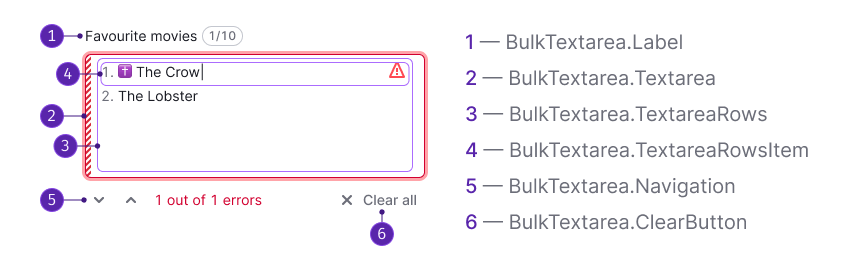
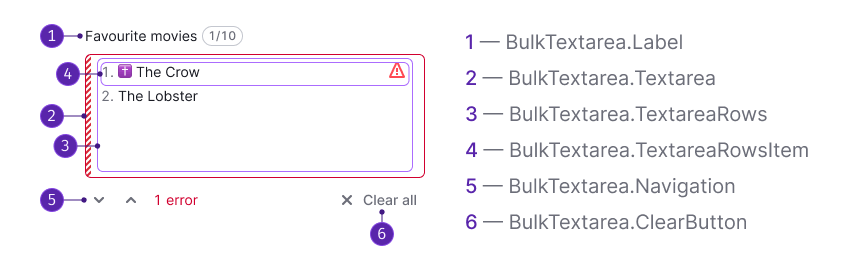
[website] added more info to BulkTextarea docs

Changed region(s): [[0.0918, 0.1778, 0.52, 0.6815], [0.1835, 0.7111, 0.3059, 0.7704]]

diff --git a/website/docs/components/bulk-textarea/bulk-textarea.md b/website/docs/components/bulk-textarea/bulk-textarea.md
@@ -3,9 +3,15 @@ title: BulkTextarea
 tabs: Design('bulk-textarea'), A11y('bulk-textarea-a11y'), API('bulk-textarea-api'), Example('bulk-textarea-code'), Changelog('bulk-textarea-changelog')
 ---
 
+_**WILL WE USE "ROW" OR "LINE" WORD FOR THE LINE WITH A VALUE? If we will use "Line" then don't forget to update "rows" to "lines" in the following documentation.**_
+
 ## Description
 
-**BulkTextarea** is a multiline text field designed for capturing lists of comma-separated values.
+**BulkTextarea** is a multiline text field designed for entering lists of comma-separated values.
+
+You can enter a list manually in this field using **Enter** or a comma, or paste a comma-separated list. You can also define your own rules for splitting values into rows.
+
+This component also provides the possibility to validate every row and the whole input.
 
 ## Component composition
 
@@ -22,7 +28,9 @@ _(THESE NAMES ARE TEMPORARY, WILL BE UPDATED ACCORDING TO THE ACTUAL COMPONENT)_
 - `BulkTextarea.Navigation`
 - `BulkTextarea.ClearButton`
 
-## Sizes
+## Appearance
+
+### Sizes
 
 Component has two sizes:
 
@@ -32,6 +40,12 @@ Table: BulkTextarea sizes
 | ---------------- | ---------------------- |
 | M (`--fs-200`)   | ![](static/bulk-m.png) |
 | L (`--fs-300`)   | ![](static/bulk-l.png) |
+
+### Rows
+
+Each row is numbered. Rows that fail validation are marked with a `Warning` icon on the right. Rows that exceed the limit have a different background color.
+
+![](static/bulktextarea-rows.png)
 
 ## Counter
 
@@ -44,9 +58,27 @@ Table: BulkTextarea with counter
 | M (`--fs-200`)   | ![](static/bulk-m.png) |
 | L (`--fs-300`)   | ![](static/bulk-l.png) |
 
+### How counter work
+
+1. The counter shows the value limit and updates once there’s at least one character in a line.
+2. The counter updates if the user deletes a line.
+3. Empty lines are removed immediately in the component if the user presses the Enter key or a comma on an empty line.
+4. Duplicate lines are counted.
+5. You can set your own validation rules for how invalid values are counted in the counter.
+
+### Values near and above limit
+
+When the number of values reaches the limit, the counter changes its theme to `warning`.
+
+![](static/values-limit.png)
+
+Rows with values that exceed the limit are highlighted. Counter changes its theme to `danger`.
+
+![](static/values-off-limit.png)
+
 ## Controls
 
-In the component, the controls have a default placement, but if you need to position them elsewhere, you can expand the component and arrange them differently. [Refer to the example]().
+In the component, the controls have a default placement, but if you need to position them elsewhere, you can expand the component and arrange them differently. [Refer to the example](/components/bulk-textarea/bulk-textarea-code#expanded-bulktextarea).
 
 ### Clear field button
 
@@ -56,32 +88,42 @@ As soon as at least one character is entered in the field, a button for clearing
 
 ### Navigation buttons
 
-Error navigation appears after the values in the field have been validated. Next to the buttons, we show the number of errors in the field.
+Error navigation shows up after all the values or a single value (depending on the validation method) are validated. The number of errors is shown next to the buttons.
 
 ![](static/bulktextarea-error-navigation.png)
 
-When clicking the buttons, cursor moves to the first or last invalid row, depending on the button. The entire value in the row is selected so the user can quickly delete it. The text next to the buttons changes to "n out of n," including when we move the cursor directly to an invalid row.
+When a button is clicked, the cursor moves to the first or last invalid row, depending on the button. The entire row's value is selected for quick deletion. The text next to the navigation buttons updates to "n out of n" when the cursor is moved using the buttons, keyboard, or mouse.
 
 ![](static/bulktextarea-error-navigation-1.png)
 
-When navigating between invalid rows, this text next to the buttons is recalculated.
+When navigating between invalid rows, the text next to the buttons is updated.  
 
-If we move from an invalid row to a valid row, the counter remains at its previous value.
+If you move from an invalid row to a valid row, the counter stays the same.
 
 ### Resize control
 
-You can enable the resize control for the textarea to allow users to adjust its size. They can stretch it horizontally, vertically, or both ways.
+You can enable the resize control for the textarea, allowing users to adjust its size. They can stretch it horizontally, vertically, or both ways.
 
-When the textarea cannot be stretched, a scrollbar will appear after a certain number of lines. We recommended adding scrollbars when the textarea has at least 5 lines.
+When the textarea cannot be stretched further, a scrollbar will appear after a certain number of rows. We recommend adding scrollbars when the textarea has at least 5 rows.
 
 ::: tip
-Avoid making the textarea smaller than 160-200px in width and 3-4 lines in height. Working with large amounts of data in smaller sizes can be challenging, especially when it serves as a primary input in a form.
+Avoid making the textarea smaller than 160–200px in width and 3–4 rows in height. Working with large amounts of data in smaller sizes can be challenging, especially when it serves as a primary input in a form.
 :::
 
 ## Interaction
 
-### Rows
+### States
+
+BulkTextarea has the same states and styles as [Textarea](/components/textarea/textarea#interaction).
 
 ### Validation
 
-## Usage in UX/UI
+You can define your own validation rules for the input: on submit, onBlur, or on line break. By default, validation in the component works on line break.
+
+### Tooltips
+
+If there are invalid values in the textarea after validation, you can show a tooltip for the entire textarea or for individual rows when the cursor is on them.
+
+![](static/bulktextarea-tooltip.png)
+
+![](static/bulktextarea-tooltip-row.png)

diff --git a/website/docs/components/bulk-textarea/bulk-textarea-a11y.md b/website/docs/components/bulk-textarea/bulk-textarea-a11y.md
@@ -2,3 +2,37 @@
 title: BulkTextarea
 tabs: Design('bulk-textarea'), A11y('bulk-textarea-a11y'), API('bulk-textarea-api'), Example('bulk-textarea-code'), Changelog('bulk-textarea-changelog')
 ---
+
+_**THIS DOCUMENTATION SHOULD BE CHECKED AND UPDATED AFTER THE COMPONENT WILL BE IMPLEMENTED.**_
+
+## What component has
+
+### Roles and attributes
+
+The following list describes roles and attributes that component already has.
+
+Table: Roles and attributes
+
+| Component               | Role / Attribute        | Usage                                                        |
+| ----------------------- | ----------------------- | ------------------------------------------------------------ |
+| `BulkTextarea.Textarea` | `textbox`               | Identifies an field that allows the input of free-form text. |
+|                         | `aria-multiline=”true”` | Indicates that a textbox accepts multiple lines of input.    |
+
+### Keyboard support
+
+See detailed information about the keyboard support for the Input in the [Keyboard control guide](/core-principles/a11y/a11y-keyboard#input_i_textarea).
+
+## Considerations for developers
+
+- Keep it simple - not all browsers correctly expose multiple labels that are linked to the same form element.
+- Use labels for every input and make the `for=""` and `id=""` values match. IDs must be unique on each page, only one label can be associated to each unique form element. Make required fields obvious by using an indicator – asterisk, description text, etc.
+- Fields with error validation should have `aria-describedby` to insure that the associated field level error message is read by assistive technology. If the error message has an `id="my-error-message"`, then the input should have `aria-describedby="my-error-message"`.
+
+## Resources
+
+- [A11y style guide](https://a11y-style-guide.com/style-guide/section-forms.html#kssref-forms-text-fields) describes core principles for the accessible inputs and textarea.
+- Find live examples of accessible inputs with different types in [DigitalA11y project](https://www.digitala11y.com/demos/accessibility-of-html-input-types-examples/).
+
+## Other recommendations
+
+See more accessibility recommendations in the common [Accessibility guide](/core-principles/a11y/a11y).

diff --git a/website/docs/components/components-showcase/components-showcase.md b/website/docs/components/components-showcase/components-showcase.md
@@ -44,6 +44,12 @@ const group = {
     route: '/intergalactic/components/breadcrumbs/breadcrumbs',
     type: 'components',
   },
+    bulkTextarea: {
+    title: 'BulkTextarea',
+    route: '/intergalactic/components/bulk-textarea/bulk-textarea',
+    disabled: false,
+    type: 'components',
+  },
   button: {
     title: 'Button',
     route: '/intergalactic/components/button/button',

diff --git a/website/docs/components/bulk-textarea/bulk-textarea-code.md b/website/docs/components/bulk-textarea/bulk-textarea-code.md
@@ -5,4 +5,4 @@ tabs: Design('bulk-textarea'), A11y('bulk-textarea-a11y'), API('bulk-textarea-ap
 
 ## Expanded BulkTextarea
 
-*Here we should add an example of how our users can expand the component if they need to change the placement of the controls.*
+*HERE, WE SHOULD ADD AN EXAMPLE OF HOW OUR USERS CAN EXPAND THE COMPONENT IF THEY NEED TO CHANGE THE PLACEMENT OF THE CONTROLS.*
